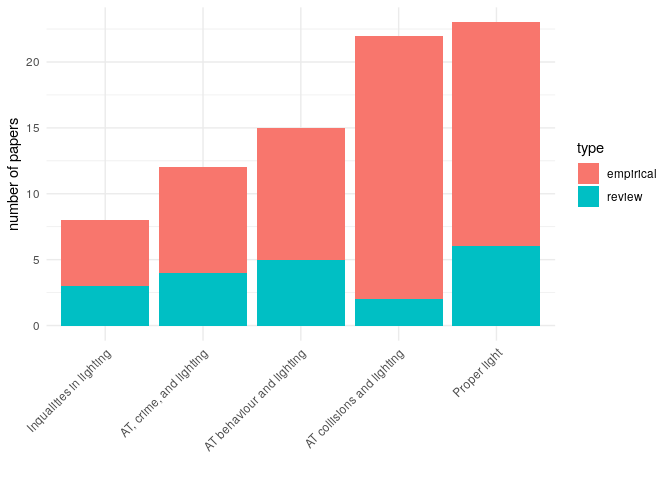
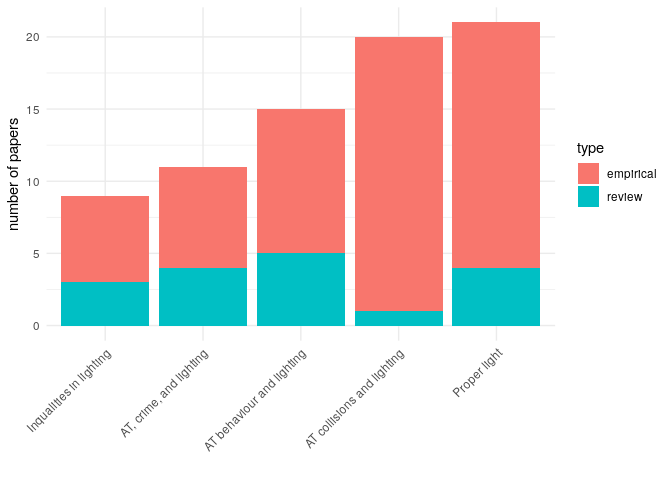
update

diff --git a/README.md b/README.md
@@ -182,7 +182,7 @@ they are unlit.
 Odds ratios indicated the numbers of pedestrians and cyclists during the
 case period were significantly higher during daylight conditions than
 after-dark, resulting in a 62% increase in pedestrians and a 38%
-increase in cyclists (Uttley and Fotios 2017).
+increase in cyclists (Uttley and Fotios 2017b).
 
 Lee and Moudon (2008) found good lighting to be the most important
 facilitator of walking and cycling.
@@ -194,7 +194,7 @@ Table 1: Overview of papers on active travel and lighting
 <thead>
 <tr>
 <th style="text-align:left;">
-citr
+authors
 </th>
 <th style="text-align:right;">
 year
@@ -332,7 +332,7 @@ empirical
 </tr>
 <tr>
 <td style="text-align:left;">
-Uttley and Fotios (2017)
+Uttley and Fotios (2017b)
 </td>
 <td style="text-align:right;">
 2017
@@ -494,14 +494,31 @@ vehicle–pedestrian night-time accidents are also greater than that of
 fatal vehicle–vehicle night-time accidents, by factors of 7.6 and 1.7,
 respectively (Liu et al. 2019).
 
+A study on bicycle-motor vehicle crashes found that crashes in low light
+conditions and during early morning hours are more likely to result in
+higher injury severity (Asgarzadeh et al. 2018).
+
+Papers on crashes during darkness in specific spots: intersections and
+pedestrian crossings.
+
+Pedestrian crossings: Uttley and Fotios (2017a).
+
+Intersections: an study showed that an increase in intersection
+illuminance from low (\<0.2 fc) to medium (≥ 0.2 fc and \<1.1 fc) could
+reduce nighttime crash frequency and night-to-day crash ratios by
+approximately 50%. When illuminance was kept at 0.9 fc or higher, the
+risk of fatality and severe injury decreased significantly, especially
+in crashes that involved pedestrians and bicycles, head-on crashes, and
+angle crashes (Wei et al. 2016).
+
 <table class="table" style="margin-left: auto; margin-right: auto;">
 <caption>
-Table 2: Overview of papers on active travel collision and lighting
+Table 2: Overview of papers on active travel collisions and lighting
 </caption>
 <thead>
 <tr>
 <th style="text-align:left;">
-citr
+authors
 </th>
 <th style="text-align:right;">
 year
@@ -637,21 +654,7 @@ empirical
 </tr>
 <tr>
 <td style="text-align:left;">
-</td>
-<td style="text-align:right;">
-2019
-</td>
-<td style="text-align:left;">
-Bicycle facilities safest from crime and crashes: Perceptions of
-residents familiar with higher crime/lower income neighborhoods in
-Boston
-</td>
-<td style="text-align:left;">
-empirical
-</td>
-</tr>
-<tr>
-<td style="text-align:left;">
+Asgarzadeh et al. (2018)
 </td>
 <td style="text-align:right;">
 2018
@@ -666,6 +669,7 @@ empirical
 </tr>
 <tr>
 <td style="text-align:left;">
+Uttley and Fotios (2017a)
 </td>
 <td style="text-align:right;">
 2017
@@ -680,20 +684,7 @@ empirical
 </tr>
 <tr>
 <td style="text-align:left;">
-S. Fotios and Castleton (2017)
-</td>
-<td style="text-align:right;">
-2017
-</td>
-<td style="text-align:left;">
-Lighting for cycling in the UK - A review
-</td>
-<td style="text-align:left;">
-review
-</td>
-</tr>
-<tr>
-<td style="text-align:left;">
+Wei et al. (2016)
 </td>
 <td style="text-align:right;">
 2016
@@ -844,7 +835,7 @@ Table 3: Overview of papers on active travel, crime, and lighting
 <thead>
 <tr>
 <th style="text-align:left;">
-citr
+authors
 </th>
 <th style="text-align:right;">
 year
@@ -881,21 +872,6 @@ empirical
 </td>
 <td style="text-align:left;">
 Pedestrian safety perception and urban street settings
-</td>
-<td style="text-align:left;">
-empirical
-</td>
-</tr>
-<tr>
-<td style="text-align:left;">
-</td>
-<td style="text-align:right;">
-2019
-</td>
-<td style="text-align:left;">
-Bicycle facilities safest from crime and crashes: Perceptions of
-residents familiar with higher crime/lower income neighborhoods in
-Boston
 </td>
 <td style="text-align:left;">
 empirical
@@ -1052,6 +1028,11 @@ A review on environments and physical activity among children and youth
 found not a very consistent positive associations between street
 lighting and physical activity (Prince et al. 2022).
 
+### Income
+
+Qualitative research on perceptions of fear to crime and rashes of
+cyclists from most deprived neighbourhoods (Lusk et al. 2019).
+
 <table class="table" style="margin-left: auto; margin-right: auto;">
 <caption>
 Table 4: Overview of papers on inequalities and lighting
@@ -1059,7 +1040,7 @@ Table 4: Overview of papers on inequalities and lighting
 <thead>
 <tr>
 <th style="text-align:left;">
-citr
+authors
 </th>
 <th style="text-align:right;">
 year
@@ -1164,6 +1145,22 @@ review
 </tr>
 <tr>
 <td style="text-align:left;">
+Lusk et al. (2019)
+</td>
+<td style="text-align:right;">
+2019
+</td>
+<td style="text-align:left;">
+Bicycle facilities safest from crime and crashes: Perceptions of
+residents familiar with higher crime/lower income neighborhoods in
+Boston
+</td>
+<td style="text-align:left;">
+empirical
+</td>
+</tr>
+<tr>
+<td style="text-align:left;">
 Annear et al. (2014)
 </td>
 <td style="text-align:right;">
@@ -1202,7 +1199,7 @@ Table 5: Overview of papers on proper lighting
 <thead>
 <tr>
 <th style="text-align:left;">
-citr
+authors
 </th>
 <th style="text-align:right;">
 year
@@ -1289,20 +1286,6 @@ empirical
 </tr>
 <tr>
 <td style="text-align:left;">
-Boyce (2019)
-</td>
-<td style="text-align:right;">
-2019
-</td>
-<td style="text-align:left;">
-The benefits of light at night
-</td>
-<td style="text-align:left;">
-review
-</td>
-</tr>
-<tr>
-<td style="text-align:left;">
 </td>
 <td style="text-align:right;">
 2018
@@ -1317,6 +1300,7 @@ empirical
 </tr>
 <tr>
 <td style="text-align:left;">
+Uttley and Fotios (2017a)
 </td>
 <td style="text-align:right;">
 2017
@@ -1354,20 +1338,6 @@ reassurance?
 </td>
 <td style="text-align:left;">
 empirical
-</td>
-</tr>
-<tr>
-<td style="text-align:left;">
-S. Fotios and Castleton (2017)
-</td>
-<td style="text-align:right;">
-2017
-</td>
-<td style="text-align:left;">
-Lighting for cycling in the UK - A review
-</td>
-<td style="text-align:left;">
-review
 </td>
 </tr>
 <tr>
@@ -1601,6 +1571,16 @@ and Active Ageing: A Systematic Review.” *Ageing and Society* 34 (4):
 
 </div>
 
+<div id="ref-asgarzadeh_impact_2018" class="csl-entry">
+
+Asgarzadeh, Morteza, Dorothee Fischer, Santosh K. Verma, Theodore K.
+Courtney, and David C. Christiani. 2018. “The Impact of Weather, Road
+Surface, Time-of-Day, and Light Conditions on Severity of Bicycle-Motor
+Vehicle Crash Injuries.” *American Journal of Industrial Medicine* 61
+(7): 556–65. <https://doi.org/10.1002/ajim.22849>.
+
+</div>
+
 <div id="ref-bonaccorsi_impact_2020" class="csl-entry">
 
 Bonaccorsi, Guglielmo, Federico Manzi, Marco Del Riccio, Nicoletta
@@ -1713,6 +1693,17 @@ Engineering* 11 (4): 1687814019840940.
 
 </div>
 
+<div id="ref-lusk_bicycle_2019" class="csl-entry">
+
+Lusk, Anne, Walter Willett, Vivien Morris, Christopher Byner, and
+Yanping Li. 2019. “Bicycle Facilities Safest from Crime and Crashes:
+Perceptions of Residents Familiar with Higher Crime/Lower Income
+Neighborhoods in Boston.” *International Journal of Environmental
+Research and Public Health* 16 (3): 484.
+<https://doi.org/10.3390/ijerph16030484>.
+
+</div>
+
 <div id="ref-mccormack_search_2011" class="csl-entry">
 
 McCormack, G. R., and A. Shiell. 2011. “In Search of Causality: A
@@ -1762,11 +1753,20 @@ Done?” *Transport Policy* 120 (May): 23–39.
 
 </div>
 
+<div id="ref-uttley_effect_2017" class="csl-entry">
+
+Uttley, Jim, and Steve Fotios. 2017a. “The Effect of Ambient Light
+Condition on Road Traffic Collisions Involving Pedestrians on Pedestrian
+Crossings.” *Accident Analysis & Prevention* 108 (November): 189–200.
+<https://doi.org/10.1016/j.aap.2017.09.005>.
+
+</div>
+
 <div id="ref-uttley_using_2017" class="csl-entry">
 
-Uttley, Jim, and Steve Fotios. 2017. “Using the Daylight Savings Clock
-Change to Show Ambient Light Conditions Significantly Influence Active
-Travel.” *Journal of Environmental Psychology* 53 (November): 1–10.
+———. 2017b. “Using the Daylight Savings Clock Change to Show Ambient
+Light Conditions Significantly Influence Active Travel.” *Journal of
+Environmental Psychology* 53 (November): 1–10.
 <https://doi.org/10.1016/j.jenvp.2017.06.003>.
 
 </div>
@@ -1786,6 +1786,15 @@ Wang, Jin, and Jessica B. Cicchino. 2020. “Fatal Pedestrian Crashes on
 Interstates and Other Freeways in the United States.” *Journal of Safety
 Research* 74 (September): 1–7.
 <https://doi.org/10.1016/j.jsr.2020.04.009>.
+
+</div>
+
+<div id="ref-wei_safety_2016" class="csl-entry">
+
+Wei, Fulu, Zhenyu Wang, Pei-Sung Lin, Ping P. Hsu, Seckin Ozkul, Jason
+Jackman, and Michael Bato. 2016. “Safety Effects of Street Illuminance
+at Urban Signalized Intersections in Florida.” *Transportation Research
+Record* 2555 (1): 95–102. <https://doi.org/10.3141/2555-13>.
 
 </div>
 
